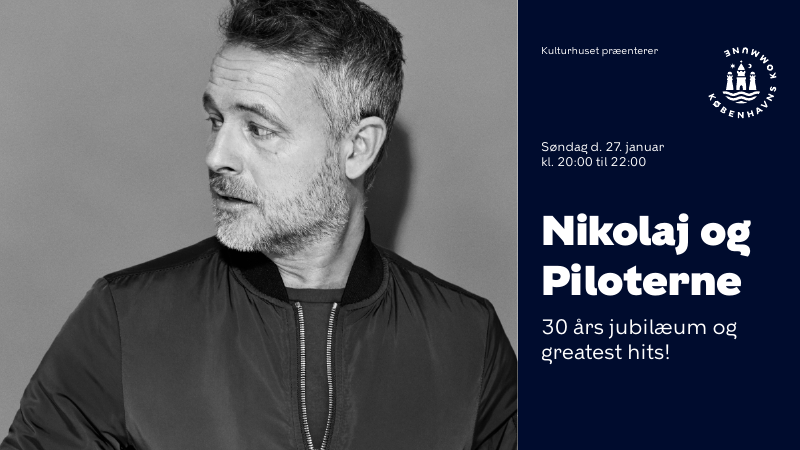
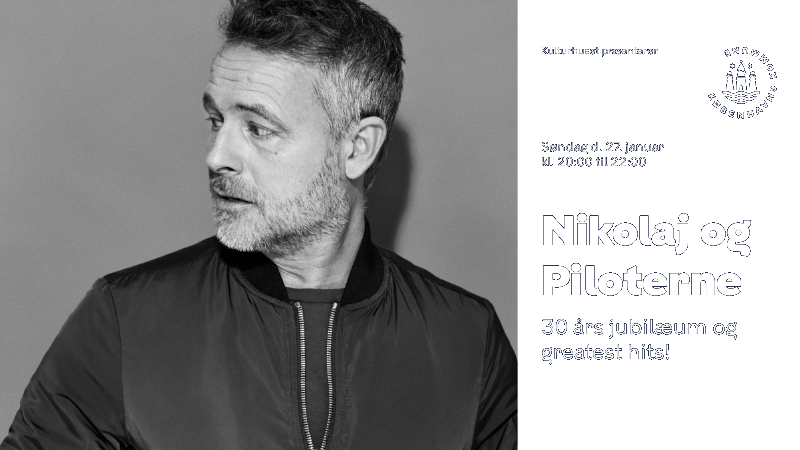
Implement background-color on slides and previews

diff --git a/src/kkos2-display-bundle/Resources/public/templates/slides/kk-eventplakat/kk-eventplakat.min.css b/src/kkos2-display-bundle/Resources/public/templates/slides/kk-eventplakat/kk-eventplakat.min.css
@@ -1,1 +1,1 @@
-@font-face{font-family:KBHTekst;src:url("../../../assets/fonts/KBHTekst.ttf");font-weight:normal;font-style:normal}@font-face{font-family:KBH;src:url("../../../assets/fonts/KBH-Thin.ttf");font-weight:100;font-style:normal}@font-face{font-family:KBH;src:url("../../../assets/fonts/KBH-Regular.ttf");font-weight:400;font-style:normal}@font-face{font-family:KBH;src:url("../../../assets/fonts/KBH-Bold.ttf");font-weight:700;font-style:normal}@font-face{font-family:KBH;src:url("../../../assets/fonts/KBH-Black.ttf");font-weight:900;font-style:normal}.font-kbhtekst{font-family:KBHTekst, sans-serif}.font-kbh{font-family:KBH, sans-serif}.font-bold{font-weight:700}.font-bolder{font-weight:900}.hyphen-word-break{word-wrap:break-word;overflow-wrap:break-word;hyphens:auto}.kk-logo--top-right{position:absolute;right:0;top:0;padding:6% 2%;width:8%}.kk-logo--top-right.kk-logo--orientation-portrait{padding:8% 4%;width:20%}.kk-slide-body{background-size:cover;background-position:center;margin:0;padding:0;position:relative;overflow:hidden}.kk-eventplakat{background-color:#000c2e;color:#f4f4f4;font-size:200%}.kk-eventplakat__subslide{width:100%}.kk-eventplakat--landscape .kk-eventplakat__subslide{display:grid;grid-template-columns:60fr 40fr}.kk-eventplakat__img--file{max-width:100%;object-fit:cover}.kk-eventplakat--portrait .kk-eventplakat__img--file{max-width:60%;max-height:20%}.kk-eventplakat__event--text{padding:5%}.kk-eventplakat__event_place{max-width:75%;font-weight:400;font-size:70%}.kk-eventplakat--portrait .kk-eventplakat__event_place{margin:10% 0 10% 5%;max-width:50%}.kk-eventplakat__event--date{margin-top:20%;font-weight:400;font-size:80%}.kk-eventplakat--portrait .kk-eventplakat__event--date{margin-top:5%}.kk-eventplakat__event--title{font-size:200%;line-height:1;margin:10% 0 0}.kk-eventplakat--portrait .kk-eventplakat__event--title{margin-top:5%}.kk-eventplakat--logo{width:12%}
+@font-face{font-family:KBHTekst;src:url("../../../assets/fonts/KBHTekst.ttf");font-weight:normal;font-style:normal}@font-face{font-family:KBH;src:url("../../../assets/fonts/KBH-Thin.ttf");font-weight:100;font-style:normal}@font-face{font-family:KBH;src:url("../../../assets/fonts/KBH-Regular.ttf");font-weight:400;font-style:normal}@font-face{font-family:KBH;src:url("../../../assets/fonts/KBH-Bold.ttf");font-weight:700;font-style:normal}@font-face{font-family:KBH;src:url("../../../assets/fonts/KBH-Black.ttf");font-weight:900;font-style:normal}.font-kbhtekst{font-family:KBHTekst, sans-serif}.font-kbh{font-family:KBH, sans-serif}.font-bold{font-weight:700}.font-bolder{font-weight:900}.hyphen-word-break{word-wrap:break-word;overflow-wrap:break-word;hyphens:auto}.kk-logo--top-right{position:absolute;right:0;top:0;padding:6% 2%;width:8%}.kk-logo--top-right.kk-logo--orientation-portrait{padding:8% 4%;width:20%}.kk-slide-body{background-size:cover;background-position:center;margin:0;padding:0;position:relative;overflow:hidden}.kk-eventplakat{color:#f4f4f4;font-size:200%}.kk-eventplakat__subslide{width:100%}.kk-eventplakat--landscape .kk-eventplakat__subslide{display:grid;grid-template-columns:60fr 40fr}.kk-eventplakat__img--file{max-width:100%;object-fit:cover}.kk-eventplakat--portrait .kk-eventplakat__img--file{max-width:60%;max-height:20%}.kk-eventplakat__event--text{padding:5%}.kk-eventplakat__event_place{max-width:75%;font-weight:400;font-size:70%}.kk-eventplakat--portrait .kk-eventplakat__event_place{margin:10% 0 10% 5%;max-width:50%}.kk-eventplakat__event--date{margin-top:20%;font-weight:400;font-size:80%}.kk-eventplakat--portrait .kk-eventplakat__event--date{margin-top:5%}.kk-eventplakat__event--title{font-size:200%;line-height:1;margin:10% 0 0}.kk-eventplakat--portrait .kk-eventplakat__event--title{margin-top:5%}.kk-eventplakat--logo{width:12%}

diff --git a/src/kkos2-display-bundle/Resources/public/templates/slides/kk-events/kk-events.min.css b/src/kkos2-display-bundle/Resources/public/templates/slides/kk-events/kk-events.min.css
@@ -1,1 +1,1 @@
-@font-face{font-family:KBHTekst;src:url("../../../assets/fonts/KBHTekst.ttf");font-weight:normal;font-style:normal}@font-face{font-family:KBH;src:url("../../../assets/fonts/KBH-Thin.ttf");font-weight:100;font-style:normal}@font-face{font-family:KBH;src:url("../../../assets/fonts/KBH-Regular.ttf");font-weight:400;font-style:normal}@font-face{font-family:KBH;src:url("../../../assets/fonts/KBH-Bold.ttf");font-weight:700;font-style:normal}@font-face{font-family:KBH;src:url("../../../assets/fonts/KBH-Black.ttf");font-weight:900;font-style:normal}.font-kbhtekst{font-family:KBHTekst, sans-serif}.font-kbh{font-family:KBH, sans-serif}.font-bold{font-weight:700}.font-bolder{font-weight:900}.hyphen-word-break{word-wrap:break-word;overflow-wrap:break-word;hyphens:auto}.kk-logo--top-right{position:absolute;right:0;top:0;padding:6% 2%;width:8%}.kk-logo--top-right.kk-logo--orientation-portrait{padding:8% 4%;width:20%}.kk-slide-body{background-size:cover;background-position:center;margin:0;padding:0;position:relative;overflow:hidden}.kk-events{background-color:#000c2e;color:#231f20}.kk-events__subslide{margin:8vh 12vw 8vh 4vw}.kk-events--portrait .kk-events__subslide{margin:18vh 12vw 8vh 4vw}.kk-events__event{margin-bottom:2vh;color:#231f20;background-color:white;display:flex}.kk-events__event:last-child{margin-bottom:0}.kk-events--portrait .kk-events__event{margin-bottom:3vh}.kk-events__event--img--file{width:40vw;height:26.66667vh;object-fit:cover}.kk-events--portrait .kk-events__event--img--file{width:25vw;height:13.6vh}.kk-events__event--text{padding:0 2%;height:26.66667vh;overflow:hidden}.kk-events--portrait .kk-events__event--text{height:13.6vh}.kk-events__event--title{margin:0;font-weight:900}.kk-events__event--body{font-size:larger;margin-top:2%}
+@font-face{font-family:KBHTekst;src:url("../../../assets/fonts/KBHTekst.ttf");font-weight:normal;font-style:normal}@font-face{font-family:KBH;src:url("../../../assets/fonts/KBH-Thin.ttf");font-weight:100;font-style:normal}@font-face{font-family:KBH;src:url("../../../assets/fonts/KBH-Regular.ttf");font-weight:400;font-style:normal}@font-face{font-family:KBH;src:url("../../../assets/fonts/KBH-Bold.ttf");font-weight:700;font-style:normal}@font-face{font-family:KBH;src:url("../../../assets/fonts/KBH-Black.ttf");font-weight:900;font-style:normal}.font-kbhtekst{font-family:KBHTekst, sans-serif}.font-kbh{font-family:KBH, sans-serif}.font-bold{font-weight:700}.font-bolder{font-weight:900}.hyphen-word-break{word-wrap:break-word;overflow-wrap:break-word;hyphens:auto}.kk-logo--top-right{position:absolute;right:0;top:0;padding:6% 2%;width:8%}.kk-logo--top-right.kk-logo--orientation-portrait{padding:8% 4%;width:20%}.kk-slide-body{background-size:cover;background-position:center;margin:0;padding:0;position:relative;overflow:hidden}.kk-events{color:#231f20}.kk-events__subslide{margin:8vh 12vw 8vh 4vw}.kk-events--portrait .kk-events__subslide{margin:18vh 12vw 8vh 4vw}.kk-events__event{margin-bottom:2vh;color:#231f20;background-color:white;display:flex}.kk-events__event:last-child{margin-bottom:0}.kk-events--portrait .kk-events__event{margin-bottom:3vh}.kk-events__event--img--file{width:40vw;height:26.66667vh;object-fit:cover}.kk-events--portrait .kk-events__event--img--file{width:25vw;height:13.6vh}.kk-events__event--text{padding:0 2%;height:26.66667vh;overflow:hidden}.kk-events--portrait .kk-events__event--text{height:13.6vh}.kk-events__event--title{margin:0;font-weight:900}.kk-events__event--body{font-size:larger;margin-top:2%}

diff --git a/src/kkos2-display-bundle/Resources/public/dist/js/kk-eventplakat.min.js b/src/kkos2-display-bundle/Resources/public/dist/js/kk-eventplakat.min.js
@@ -1,1 +1,1 @@
-window.slidesInSlides||(window.slidesInSlides={}),window.slidesInSlides.setup||(window.slidesInSlides.setup=function(i,s,d,e){i.ikSlide.data={currentSlide:0,subslides:s,num_subslides:d,subslide_duration:e}}),window.slidesInSlides.run||(window.slidesInSlides.run=function(s,d){if(!s.options||!s.data||!s.data.subslides)return s.loop_throttle?(d.itkLog.info("No data for slides in slide, skipping"),void d.nextSlide()):(d.itkLog.info("Skipping to buy time for slides in slide data ..."),void(s.loop_throttle=1));s.loop_throttle=!1;var e=s.data.subslide_duration?s.data.subslide_duration:15,i=function(){d.$timeout(function(){s.data.currentSlide+1>=s.data.num_subslides?d.nextSlide():(s.data.currentSlide++,console.log("Advancing to subslide "+(1+s.data.currentSlide)+" of "+s.data.num_subslides),i())},1e3*e)};console.log("Slide has "+s.data.num_subslides+" subslides"),s.data.currentSlide=0,i(),d.$timeout(function(){var i=e*s.data.num_subslides;d.progressBar.start(i)},d.fadeTime)}),window.slideFunctions["kk-eventplakat"]||(window.slideFunctions["kk-eventplakat"]={setup:function(i){var s=i.ikSlide,d=[],e=0;s.external_data&&s.external_data.sis_data_slides&&(d=s.external_data.sis_data_slides,e=s.external_data.sis_data_num_slides);var t=s.options.sis_subslide_duration?s.options.sis_subslide_duration:10;window.slidesInSlides.setup(i,d,e,t),i.ikSlide.logo=s.server_path+"/bundles/kkos2displayintegration/assets/img/kbh-logo.png",i.theStyle={width:"100%",height:"100%"}},run:function(i,s){window.slidesInSlides.run(i,s)}});
+window.slidesInSlides||(window.slidesInSlides={}),window.slidesInSlides.setup||(window.slidesInSlides.setup=function(i,s,d,e){i.ikSlide.data={currentSlide:0,subslides:s,num_subslides:d,subslide_duration:e}}),window.slidesInSlides.run||(window.slidesInSlides.run=function(s,d){if(!s.options||!s.data||!s.data.subslides)return s.loop_throttle?(d.itkLog.info("No data for slides in slide, skipping"),void d.nextSlide()):(d.itkLog.info("Skipping to buy time for slides in slide data ..."),void(s.loop_throttle=1));s.loop_throttle=!1;var e=s.data.subslide_duration?s.data.subslide_duration:15,i=function(){d.$timeout(function(){s.data.currentSlide+1>=s.data.num_subslides?d.nextSlide():(s.data.currentSlide++,console.log("Advancing to subslide "+(1+s.data.currentSlide)+" of "+s.data.num_subslides),i())},1e3*e)};console.log("Slide has "+s.data.num_subslides+" subslides"),s.data.currentSlide=0,i(),d.$timeout(function(){var i=e*s.data.num_subslides;d.progressBar.start(i)},d.fadeTime)}),window.slideFunctions["kk-eventplakat"]||(window.slideFunctions["kk-eventplakat"]={setup:function(i){var s=i.ikSlide,d=[],e=0;s.external_data&&s.external_data.sis_data_slides&&(d=s.external_data.sis_data_slides,e=s.external_data.sis_data_num_slides);var t=s.options.sis_subslide_duration?s.options.sis_subslide_duration:10;window.slidesInSlides.setup(i,d,e,t),i.ikSlide.logo=s.server_path+"/bundles/kkos2displayintegration/assets/img/kbh-logo.png",i.theStyle={width:"100%",height:"100%",bgcolor:s.options.bgcolor}},run:function(i,s){window.slidesInSlides.run(i,s)}});

diff --git a/src/kkos2-display-bundle/Resources/public/dist/js/kk-events.min.js b/src/kkos2-display-bundle/Resources/public/dist/js/kk-events.min.js
@@ -1,1 +1,1 @@
-window.slidesInSlides||(window.slidesInSlides={}),window.slidesInSlides.setup||(window.slidesInSlides.setup=function(i,s,d,e){i.ikSlide.data={currentSlide:0,subslides:s,num_subslides:d,subslide_duration:e}}),window.slidesInSlides.run||(window.slidesInSlides.run=function(s,d){if(!s.options||!s.data||!s.data.subslides)return s.loop_throttle?(d.itkLog.info("No data for slides in slide, skipping"),void d.nextSlide()):(d.itkLog.info("Skipping to buy time for slides in slide data ..."),void(s.loop_throttle=1));s.loop_throttle=!1;var e=s.data.subslide_duration?s.data.subslide_duration:15,i=function(){d.$timeout(function(){s.data.currentSlide+1>=s.data.num_subslides?d.nextSlide():(s.data.currentSlide++,console.log("Advancing to subslide "+(1+s.data.currentSlide)+" of "+s.data.num_subslides),i())},1e3*e)};console.log("Slide has "+s.data.num_subslides+" subslides"),s.data.currentSlide=0,i(),d.$timeout(function(){var i=e*s.data.num_subslides;d.progressBar.start(i)},d.fadeTime)}),window.slideFunctions["kk-events"]||(window.slideFunctions["kk-events"]={setup:function(i){var s=i.ikSlide,d=[],e=0;s.external_data&&s.external_data.sis_data_slides&&(d=s.external_data.sis_data_slides,e=s.external_data.sis_data_num_slides);var t=s.options.sis_subslide_duration?s.options.sis_subslide_duration:10;i.ikSlide.logo=s.server_path+"/bundles/kkos2displayintegration/assets/img/kbh-logo.png",i.theStyle={width:"100%",height:"100%"},window.slidesInSlides.setup(i,d,e,t)},run:function(i,s){window.slidesInSlides.run(i,s)}});
+window.slidesInSlides||(window.slidesInSlides={}),window.slidesInSlides.setup||(window.slidesInSlides.setup=function(i,s,d,e){i.ikSlide.data={currentSlide:0,subslides:s,num_subslides:d,subslide_duration:e}}),window.slidesInSlides.run||(window.slidesInSlides.run=function(s,d){if(!s.options||!s.data||!s.data.subslides)return s.loop_throttle?(d.itkLog.info("No data for slides in slide, skipping"),void d.nextSlide()):(d.itkLog.info("Skipping to buy time for slides in slide data ..."),void(s.loop_throttle=1));s.loop_throttle=!1;var e=s.data.subslide_duration?s.data.subslide_duration:15,i=function(){d.$timeout(function(){s.data.currentSlide+1>=s.data.num_subslides?d.nextSlide():(s.data.currentSlide++,console.log("Advancing to subslide "+(1+s.data.currentSlide)+" of "+s.data.num_subslides),i())},1e3*e)};console.log("Slide has "+s.data.num_subslides+" subslides"),s.data.currentSlide=0,i(),d.$timeout(function(){var i=e*s.data.num_subslides;d.progressBar.start(i)},d.fadeTime)}),window.slideFunctions["kk-events"]||(window.slideFunctions["kk-events"]={setup:function(i){var s=i.ikSlide,d=[],e=0;s.external_data&&s.external_data.sis_data_slides&&(d=s.external_data.sis_data_slides,e=s.external_data.sis_data_num_slides);var t=s.options.sis_subslide_duration?s.options.sis_subslide_duration:10;i.ikSlide.logo=s.server_path+"/bundles/kkos2displayintegration/assets/img/kbh-logo.png",i.theStyle={width:"100%",height:"100%",bgcolor:s.options.bgcolor},window.slidesInSlides.setup(i,d,e,t)},run:function(i,s){window.slidesInSlides.run(i,s)}});

diff --git a/src/kkos2-display-bundle/Resources/public/templates/slides/kk-eventplakat/kk-eventplakat.js b/src/kkos2-display-bundle/Resources/public/templates/slides/kk-eventplakat/kk-eventplakat.js
@@ -15,7 +15,6 @@ if (!window.slideFunctions['kk-eventplakat']) {
         subslides = slide.external_data.sis_data_slides;
         num_subslides = slide.external_data.sis_data_num_slides;
       }
-
       var slide_duration = slide.options.sis_subslide_duration ? slide.options.sis_subslide_duration : 10;
       window.slidesInSlides.setup(scope, subslides, num_subslides, slide_duration);
 
@@ -23,6 +22,7 @@ if (!window.slideFunctions['kk-eventplakat']) {
       scope.theStyle = {
         width: "100%",
         height: "100%",
+        bgcolor: slide.options.bgcolor
       };
     },
 

diff --git a/src/kkos2-display-bundle/Resources/public/templates/slides/kk-eventplakat/kk-eventplakat-live.html b/src/kkos2-display-bundle/Resources/public/templates/slides/kk-eventplakat/kk-eventplakat-live.html
@@ -1,6 +1,6 @@
 <div class="kk-eventplakat kk-eventplakat--{{ikSlide.orientation}} kk-slide-body font-kbh"
      lang="da-DK"
-     data-ng-style="{'width': theStyle.width, 'height': theStyle.height}">
+     data-ng-style="{'width': theStyle.width, 'height': theStyle.height, 'background-color': thestyle.bgcolor}">
 
   <div class="kk-eventplakat__subslide"
        ng-repeat="event in ikSlide.data.subslides track by $index"

diff --git a/src/kkos2-display-bundle/Resources/public/templates/slides/kk-events/kk-events-live.html b/src/kkos2-display-bundle/Resources/public/templates/slides/kk-events/kk-events-live.html
@@ -1,5 +1,9 @@
 <div class="kk-events kk-events--{{ikSlide.orientation}} kk-slide-body font-kbh"
-     data-ng-style="{'width': theStyle.width, 'height': theStyle.height}">
+     data-ng-style="{
+     'width': theStyle.width,
+     'height': theStyle.height,
+     'background-color': theStyle.bgcolor
+     }">
 
   <div class="kk-events__subslide"
        ng-repeat="slide in ikSlide.data.subslides track by $index"

diff --git a/src/kkos2-display-bundle/Resources/public/templates/slides/kk-events/kk-events.js b/src/kkos2-display-bundle/Resources/public/templates/slides/kk-events/kk-events.js
@@ -22,6 +22,7 @@ if (!window.slideFunctions['kk-events']) {
       scope.theStyle = {
         width: "100%",
         height: "100%",
+        bgcolor: slide.options.bgcolor
       };
 
       window.slidesInSlides.setup(scope, subslides, num_subslides, slide_duration);

diff --git a/src/kkos2-display-bundle/Resources/public/templates/slides/kk-eventplakat/kk-eventplakat-edit.html b/src/kkos2-display-bundle/Resources/public/templates/slides/kk-eventplakat/kk-eventplakat-edit.html
@@ -1,3 +1,5 @@
-<div>
+<div data-ng-style="{
+     'background-color': ikSlide.options.bgcolor
+     }">
   <img src="/bundles/kkos2displayintegration/templates/slides/kk-eventplakat/preview-{{ikSlide.orientation}}.png" alt="Preview eventplakat">
 </div>

diff --git a/src/kkos2-display-bundle/Resources/public/templates/slides/kk-events/kk-events-edit.html b/src/kkos2-display-bundle/Resources/public/templates/slides/kk-events/kk-events-edit.html
@@ -1,3 +1,5 @@
-<div>
+<div data-ng-style="{
+     'background-color': ikSlide.options.bgcolor
+     }">
   <img src="/bundles/kkos2displayintegration/templates/slides/kk-events/preview-{{ikSlide.orientation}}.png" alt="Preview events">
 </div>

diff --git a/src/kkos2-display-bundle/Resources/public/templates/slides/kk-eventplakat/kk-eventplakat.scss b/src/kkos2-display-bundle/Resources/public/templates/slides/kk-eventplakat/kk-eventplakat.scss
@@ -1,7 +1,6 @@
 @import "../../../assets/scss/kff";
 
 .kk-eventplakat {
-  background-color: #000c2e;
   color: #f4f4f4;
   font-size: 200%;
 }

diff --git a/src/kkos2-display-bundle/Resources/public/templates/slides/kk-events/kk-events.scss b/src/kkos2-display-bundle/Resources/public/templates/slides/kk-events/kk-events.scss
@@ -1,7 +1,6 @@
 @import "../../../assets/scss/kff";
 
 .kk-events {
-  background-color: #000c2e;
   color: #231f20;
 }
 
